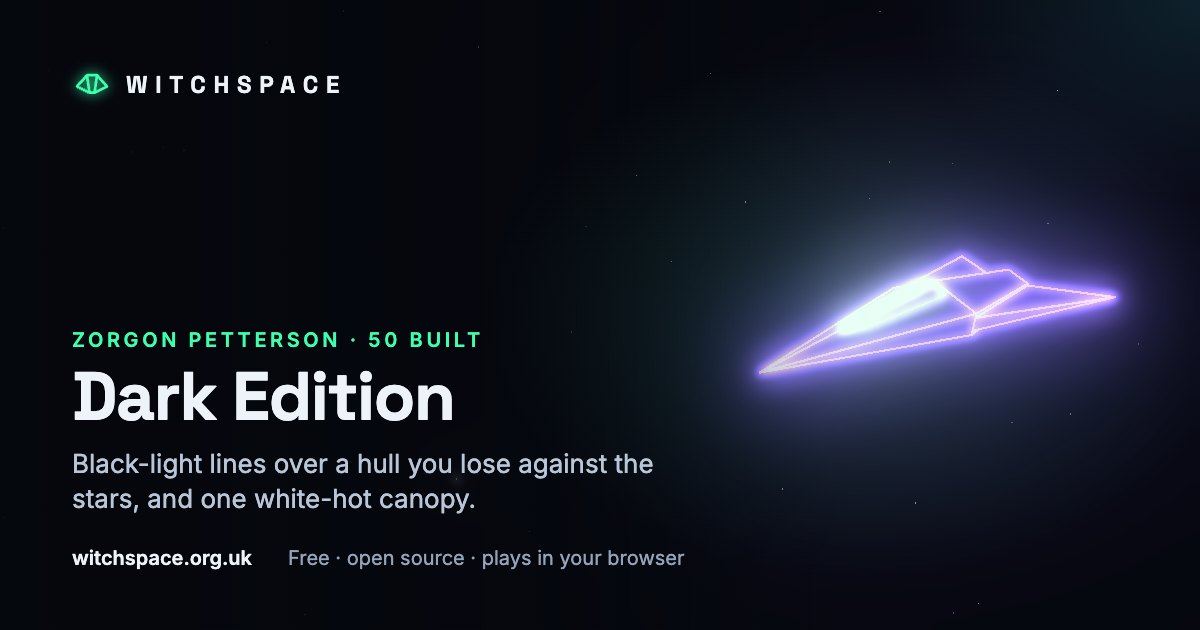
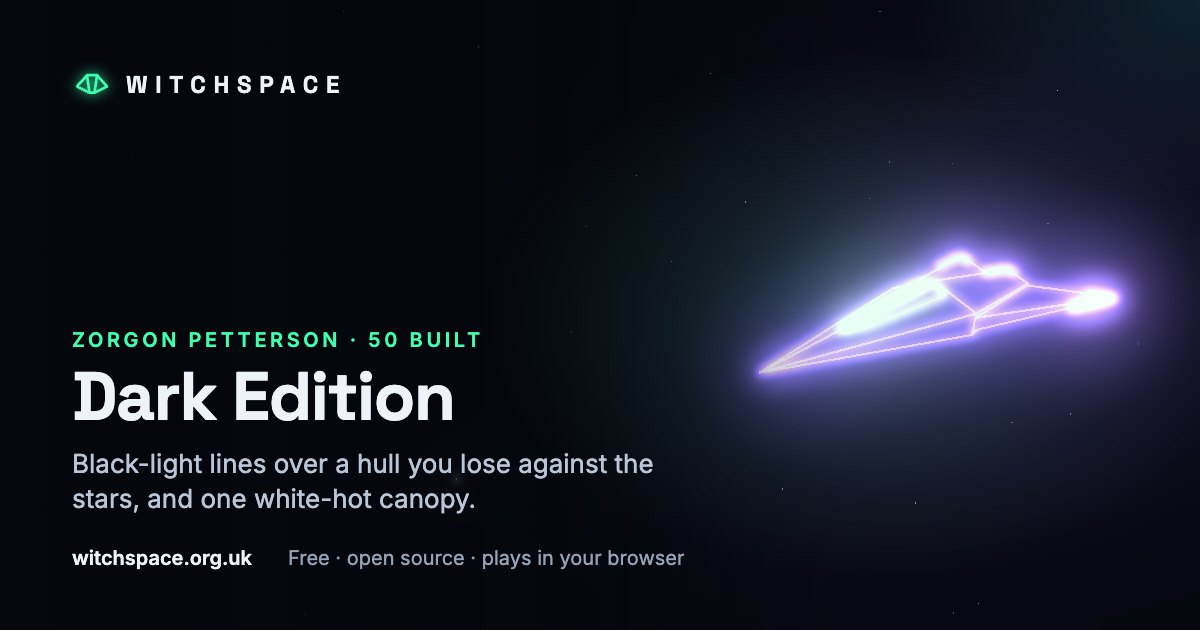
The Dark Edition's running lights on her page, in the configurator and on her share card; the idea marked built (#291)

Changed region(s): [[0.7708, 0.3317, 0.9867, 0.6032]]

diff --git a/tools/ships.ts b/tools/ships.ts
@@ -67,6 +67,8 @@ export interface EditionCard {
   /** Days the yard takes to finish one by hand. */
   finishDays: number;
   deposit: number;
+  /** Black-light running lights aboard (the Dark Edition's luxury): drawn on her. */
+  lights: boolean;
 }
 
 export interface ModuleFile {
@@ -422,11 +424,11 @@ export function buildPage(s: ShipFile, names: Record<string, string>) {
 /** A numbered edition's own page (Mark: "surely the special editions would have their own marketing page"): she turns in her paint, and the yard's office says how many are left (src/site/edition.ts). */
 export function editionPage(s: ShipFile, e: EditionCard, others: EditionCard[]) {
   const def = JSON.stringify({ id: s.id, name: s.name, geometry: s.geometry, style: s.style ?? {}, insignia: s.insignia }).replace(/</g, '\\u003c');
-  const look = JSON.stringify({ colour: e.colour, glow: e.glowLevel, trim: e.trimColour });
+  const look = JSON.stringify({ colour: e.colour, glow: e.glowLevel, trim: e.trimColour, ...(e.lights ? { lights: true } : {}) });
   const no = (n: number) => String(n).padStart(3, '0');
   const maker = s.manufacturer && s.manufacturer !== 'None' ? s.manufacturer : 'The yard';
   return {
-    card: { ship: s.id, kicker: `${maker} · ${e.limit} built`, title: e.name, sub: e.blurb.split('. ')[0] + '.', paint: { colour: e.colour, glow: e.glowLevel, trim: e.trimColour } },
+    card: { ship: s.id, kicker: `${maker} · ${e.limit} built`, title: e.name, sub: e.blurb.split('. ')[0] + '.', paint: { colour: e.colour, glow: e.glowLevel, trim: e.trimColour, ...(e.lights ? { lights: true } : {}) } },
     schema: [{ '@type': 'CreativeWork', name: `${s.name} ${e.name}`, description: e.blurb, about: { '@type': 'CreativeWork', name: s.name, url: `https://witchspace.org.uk/ships/${s.id}/` }, isPartOf: { '@type': 'VideoGame', name: 'Witchspace', url: 'https://witchspace.org.uk/play/' } }],
     title: `${e.name} · ${s.name} · Ships · Witchspace`,
     description: `The ${s.name} ${e.name}: ${e.blurb} ${e.price.toLocaleString('en-GB')} Cr, reserved in the game.`.slice(0, 300),

diff --git a/tools/build-site.ts b/tools/build-site.ts
@@ -43,7 +43,7 @@ interface Page {
   /** Extra tags for <head>. */
   head?: string;
   /** This page's own branded share card (tools/share-cards.mjs makes it): the ship on it, a kicker and a line. */
-  card?: { ship: string; kicker: string; sub: string; title?: string; paint?: { colour: string; glow: number; trim: string | null } };
+  card?: { ship: string; kicker: string; sub: string; title?: string; paint?: { colour: string; glow: number; trim: string | null; lights?: boolean } };
   /** Structured data for search engines (schema.org), besides the site and breadcrumbs added to every page. */
   schema?: Record<string, unknown>[];
 }
@@ -51,7 +51,7 @@ interface Page {
 // --- Share cards and structured data ----------------------------------------------
 
 /** Every page's card, for tools/share-cards.mjs to photograph into public/share/. */
-const cards: { file: string; ship: string; kicker: string; title: string; sub: string; paint?: { colour: string; glow: number; trim: string | null } }[] = [];
+const cards: { file: string; ship: string; kicker: string; title: string; sub: string; paint?: { colour: string; glow: number; trim: string | null; lights?: boolean } }[] = [];
 const cardFile = (path: string) => (path === '/' ? 'home' : path.replace(/^\/|\/$/g, '').replace(/\//g, '-')) + '.jpg';
 
 /** Branded cards for the hand-written pages (ships and design docs get theirs where they're made). */

diff --git a/tools/share-card.ts b/tools/share-card.ts
@@ -67,4 +67,18 @@ composer.addPass(bloom);
 composer.addPass(new OutputPass());
 setLineResolution(renderer.getDrawingBufferSize(new THREE.Vector2()));
 composer.render();
-void document.fonts.ready.then(() => document.body.classList.add('ready'));
+// Running lights (a numbered edition's luxury) fade in over a second and pulse: keep drawing until
+// they're in, and take the picture as the pulse peaks. Anything else is ready at once.
+const lit = q.get('paint')?.includes('"lights":true');
+const settle = (start: number) =>
+  new Promise<void>((done) => {
+    const frame = () => {
+      composer.render();
+      const t = performance.now();
+      const peak = Math.abs(((t / 1000 / 2.6) % 1) - 0.25) < 0.03;
+      if (t - start > 1500 && peak) done();
+      else requestAnimationFrame(frame);
+    };
+    frame();
+  });
+void Promise.all([document.fonts.ready, lit ? settle(performance.now()) : null]).then(() => document.body.classList.add('ready'));

diff --git a/src/site/build.ts b/src/site/build.ts
@@ -216,10 +216,11 @@ try {
 let shown = '';
 function paint() {
   const s = showing();
-  const key = `${s.colour}|${s.glow}|${s.trim}`;
+  const lights = s.luxuries.includes('black-light-lights');
+  const key = `${s.colour}|${s.glow}|${s.trim}|${lights}`;
   if (key === shown) return;
   shown = key;
-  view?.show(def, { colour: s.colour, glow: GLOWS[s.glow].glow, trim: s.trim });
+  view?.show(def, { colour: s.colour, glow: GLOWS[s.glow].glow, trim: s.trim, ...(lights ? { lights } : {}) });
   document.querySelector<HTMLElement>('.build-page')!.style.setProperty('--hull', s.colour);
   const c = colourOf(s.colour);
   const t = colourOf(s.trim);

diff --git a/tools/shipFiles.ts b/tools/shipFiles.ts
@@ -58,6 +58,7 @@ export function editionsFor(s: ShipFile): EditionCard[] {
       glowLevel: GLOWS[e.glow].glow,
       finishDays: Math.round(e.finishHours / 24),
       deposit: depositFor(editionQuote(s as unknown as ShipDef, e)),
+      lights: e.luxuries.includes('black-light-lights'),
     };
   });
 }

diff --git a/docs/ideas.md b/docs/ideas.md
@@ -26,7 +26,7 @@ A parking spot for good ideas that aren't designed yet. When one is picked up, i
 
 - **The classic fleet as open briefs** *(Mark, 28 October 2026; designed in [the shipbuilders](design/shipbuilders.md))*. The 1984 names we haven't flown yet (Adder, Python, Boa, Anaconda, Asp II, Krait, Gecko, Constrictor, Fer-de-lance, Moray and the rest) open as briefs on the site. Each brief carries Samuel Penn's size, hold and role from his Traveller designs, linked as inspiration. The community submits original hulls, votes yes or no and improves them. The hulls stay our own geometry with a nod to 1984, as every ship is (see [ships, classes and makers](design/ships-and-classes.md)). **In the universe** *(Mark)*: the briefs come from the makers themselves. Cowell & MgRath put the Python out to tender, Zorgon Petterson want a new Asp, and pilots' votes are the market's verdict. The winner rolls off that maker's line into the shipyards, with its designer credited and paid a commission, as an accepted module's designer is. That brings Build into the lore, and it's the natural way in to the ship editor. **Every submission goes to a maker** *(Mark, 28 October 2026)*: improvements to any ship, and new builds, are handed to the yard that would build them, not to an anonymous queue. A pilot whose designs keep being accepted is **offered a job** in the game: a message from the maker, as a company's special assignment is now, inviting them into its design office. That brings their name on the yard's ships, staff prices at its shipyards, a commission on every hull sold, and test-flying its concepts before anyone else. The same review could lift the ships already flying: Samuel noticed that our Cobra and Sidewinder read as Geckos, and our Viper lacks its top and bottom triangle.
 - **The makers come calling when you can afford one** *(Mark, 28 October 2026)*. "When they do we will start to target them with in-game ads." Once a commander's credits pass a hull's deposit (or its price), its maker gets in touch, the way the companies' messages arrive now: an invitation to a private viewing at their nearest shipyard, a brochure for the concept, "only 41 of the Witch-fire Edition remain". Never more than one a week, never in a fight, and you can tell a maker to stop. In-world advertising, by in-world makers, for in-game credits: it sells the dream, not anything real.
-- **Black-light running lights, and the full ghost** *(Mark, 28 October 2026: "full ghost sounds really cool")*. The Dark Edition's own luxury, made real as a pure visual signature, never an advantage. Small violet running lights at her wingtips and tail, pulsing slowly, seen only within about a kilometre. Running dark (transponder off), she's an unidentified ship like any other until someone is close enough to read her hull, and then the black-light lights fade in: the moment you realise that ship is a Dark Edition ("lights you only see up close, and only if she lets you"). Her owner can switch them off for the **full ghost**: no lights at all, only her hull. Nothing dims (the glow is the signature); the lights are added on top. Drawn wherever she is: in flight, in shared space, in the berth, on her page on the site and on her share card.
+- **Black-light running lights, and the full ghost** *(Mark, 28 October 2026: "full ghost sounds really cool"; built, 28 October 2026)*. The Dark Edition's own luxury, made real as a pure visual signature, never an advantage. Small violet running lights at her wingtips and tail, pulsing slowly, seen only within about a kilometre. Running dark (transponder off), she's an unidentified ship like any other until someone is close enough to read her hull, and then the black-light lights fade in: the moment you realise that ship is a Dark Edition ("lights you only see up close, and only if she lets you"). Her owner can switch them off for the **full ghost**: no lights at all, only her hull. Nothing dims (the glow is the signature); the lights are added on top. Drawn wherever she is: in flight, in shared space, in the berth, on her page on the site and on her share card.
 - **Circuit breakers on the exchange** *(Mark, 28 October 2026)*. "Can't you suspend trading for a while, just like they do in the real world?" Once the order books are shared, one rich commander could dump a fortune in gem-stones and hold the price down for everyone. A station's exchange halts trading in a good when its price moves too far too fast (say a third in an hour), for a while, with a notice on the board and in the news ("Gem-stone trading suspended at Lave after a 40% fall"). Resting orders wait out the halt. A station's own buyers (a "plunge protection team", in Mark's words) could also step in and buy, so a crash recovers faster where the government is strong (corporate states, democracies) than in an anarchy. Today each player's market is their own copy, so a crash only costs the player who caused it.
 - **Designers bring their own tools** *(Mark, 28 October 2026)*. "They will be designing ships using their own software that they are already familiar with, or they will be using AI tools." Nobody designs a ship on a phone, and few will learn our point editor. So the way in is **import**: drop in an `.obj` from Blender (or any 3D tool that exports one), and the site turns it into a ship file. It merges flat triangles into faces, sets the scale in metres, and shows it turning in neo glow beside a Cobra, with the checks (flat convex faces, closed hull, the docking slot, the face count) saying what to fix. Then it's handed in like any other. The **AI path** already exists: the Witchspace connector lets an assistant (Claude, ChatGPT and others) draw, validate, preview and hand in a ship, and should be offered on the editor page as plainly as the editor itself. The point editor stays, for small tweaks and for looking.
 
